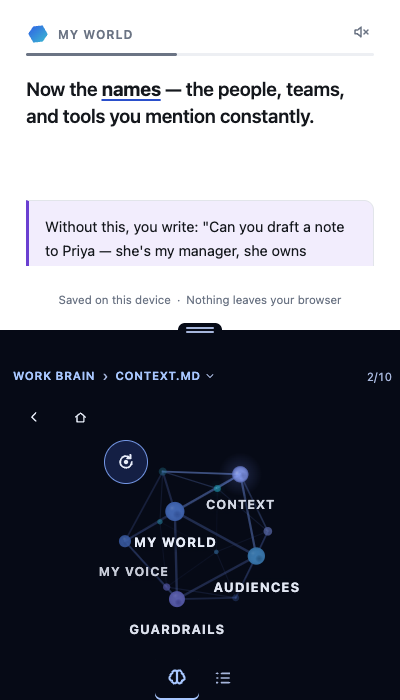
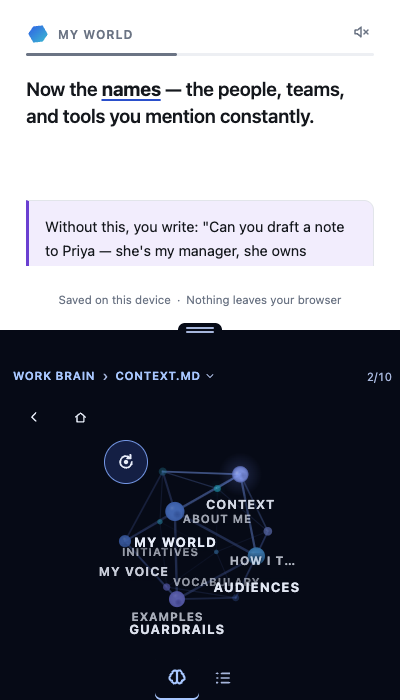
V2.3 VB-77 FLAG 3: far-side labels persist at the floors
The depth cut (LABEL_DEPTH_FLOOR = 0.5) is retired: every section name
stays painted at the far side, clamped at LABEL_OPACITY_MIN (8.8:1 on the
field) and LABEL_SIZE_MIN (11.2px) — small and full-strength, which reads
as distance. "To maintain the illusion of permanence" (Adam).

The cut existed because a cross-fade to nothing paints sub-floor frames;
a floor-clamp has no way down, so the 200ms transition only interpolates
between legal values — the replacement claim is stricter than the cut it
retires (every label ≥ the floor, none absent), pinned in
brain-globe.spec and BrainGlobe.test. If the far side still reads as
"disappearing" in the morning, the remaining lever is size, not opacity
(noted at the old constant's site).

Gate: npm run check exit 0.

Changed region(s): [[0.3, 0.78, 0.72, 0.84], [0.45, 0.72, 0.63, 0.75], [0.33, 0.87, 0.51, 0.9]]

diff --git a/src/panel/components/BrainGlobe.tsx b/src/panel/components/BrainGlobe.tsx
@@ -770,10 +770,18 @@ const EDGE_W_SPAN = 1.9;
 const EDGE_BASE_OPACITY_MIN = 0.16;
 const EDGE_BASE_OPACITY_SPAN = 0.22;
 const EDGE_LIT_OPACITY = 0.86;
-/** Below this depth a label is behind the globe and is not shown at all.
- * Anything still shown stays at or above LABEL_OPACITY_MIN, which measures
- * 8.8:1 on the field — dimmer-with-distance must never mean under 4.5:1. */
-const LABEL_DEPTH_FLOOR = 0.5;
+/**
+ * V2.3 VB-77 FLAG 3 — labels persist at the far side. There used to be a
+ * depth floor here (0.5) below which a label was not painted at all; the
+ * cut existed because a label that CROSS-FADES to nothing paints text below
+ * the contrast floor on the way down. Persistence dissolves that reason:
+ * opacity is clamped at LABEL_OPACITY_MIN (8.8:1 on the field) and size at
+ * LABEL_SIZE_MIN, so the far names sit small and full-strength — which
+ * reads as distance — and the 200ms transition only ever interpolates
+ * between legal values. "To maintain the illusion of permanence" (Adam,
+ * docs/V2.3-REFINEMENT.md). If the far side still reads as "disappearing"
+ * in the morning, the remaining lever is SIZE, not opacity.
+ */
 const LABEL_OPACITY_MIN = 0.62;
 /**
  * V1.5 VB-26 — `type.label`, scaled for depth.
@@ -2887,7 +2895,6 @@ export function BrainGlobe({
             const node = frame.nodes[vertexIndex]!;
             const state = stateOf(entry.section);
             const isFlown = entry.index === flownIndex;
-            const visible = reduced || node.t >= LABEL_DEPTH_FLOOR || isFlown;
             // Depth sets a label's opacity; flying into a section also takes
             // the other nine's names down with their spheres, so the one you
             // are inside is the only thing left to read.
@@ -2915,7 +2922,7 @@ export function BrainGlobe({
               left: `${left}%`,
               top: `${pct(at.y)}%`,
               '--brainglobe-hit-size': `${orbPx.toFixed(1)}px`,
-              '--brainglobe-label-opacity': visible ? labelOpacity.toFixed(3) : '0',
+              '--brainglobe-label-opacity': labelOpacity.toFixed(3),
               '--brainglobe-label-size': `${(LABEL_SIZE_MIN + node.t * LABEL_SIZE_SPAN).toFixed(1)}px`,
               '--brainglobe-label-weight': String(
                 Math.round((LABEL_WEIGHT_MIN + node.t * LABEL_WEIGHT_SPAN) / 50) * 50,
@@ -2935,7 +2942,7 @@ export function BrainGlobe({
                 data-section-id={entry.section.id}
                 data-node-state={state}
                 data-depth={node.t.toFixed(3)}
-                data-label-hidden={visible ? 'false' : 'true'}
+                data-label-hidden="false"
                 style={style}
                 // The section you are inside goes too once a sub-node takes
                 // the stage: its orb has faded out, and a control nobody can

diff --git a/tests/e2e/brain-globe.spec.ts b/tests/e2e/brain-globe.spec.ts
@@ -210,14 +210,15 @@ test.describe('V2.1 VB-77 — labels ride their orb and do not blink', () => {
   });
 
   /**
-   * The cut at LABEL_DEPTH_FLOOR survives VB-77 and must stay a cut. A label
-   * that cross-fades to nothing paints text below the contrast floor on every
-   * frame of the way down, which docs/GUARDRAILS.md forbids — the same
-   * constraint core/flow/navMelt.ts's header documents. So: every name on
-   * screen is at or above the floor, and the ones below it are not on screen.
-   * There is no in-between, and this asserts there is no in-between.
+   * V2.3 VB-77 FLAG 3 — the depth cut is retired, and what replaces it is
+   * stricter: every label persists, and every one is at or above the
+   * contrast floor. The cut existed because a cross-fade to nothing paints
+   * sub-floor frames (docs/GUARDRAILS.md; core/flow/navMelt.ts's header) —
+   * a floor-CLAMP has no way down, so the 200ms transition only ever
+   * interpolates between legal values. Far names sit small and
+   * full-strength, which reads as distance: "the illusion of permanence".
    */
-  test('no label is ever painted faint — it is above the floor or it is gone', async ({ page }) => {
+  test('every label persists, and none is ever painted faint (VB-77 FLAG 3)', async ({ page }) => {
     await open(page);
     const opacities = await page
       .locator('.brainglobe-label')
@@ -225,9 +226,7 @@ test.describe('V2.1 VB-77 — labels ride their orb and do not blink', () => {
 
     expect(opacities.length).toBeGreaterThan(0);
     for (const value of opacities) {
-      const legible = value >= 0.6;
-      const absent = value <= 0.001;
-      expect(legible || absent, `a label was painted at ${value} — neither legible nor gone`).toBe(true);
+      expect(value, `a label was painted at ${value} — below the 8.8:1 floor`).toBeGreaterThanOrEqual(0.6);
     }
   });
 

diff --git a/src/panel/components/BrainGlobe.test.tsx b/src/panel/components/BrainGlobe.test.tsx
@@ -536,15 +536,18 @@ describe('BrainGlobe — labels key off depth', () => {
     for (const value of shown) expect(value.opacity).toBeGreaterThanOrEqual(0.62);
   });
 
-  it('a label behind the globe is not shown at all, rather than shown too faintly', () => {
+  it('a label behind the globe persists at the floor — small and full-strength, never faint (VB-77 FLAG 3)', () => {
     stubEnvironment({ reduce: false });
     const { container } = render();
     const behind = sectionPins(container).filter((pin) => Number(pin.getAttribute('data-depth')) < 0.5);
     expect(behind.length).toBeGreaterThan(0);
     for (const pin of behind) {
-      expect(pin.getAttribute('data-label-hidden')).toBe('true');
-      expect(pin.style.getPropertyValue('--brainglobe-label-opacity')).toBe('0');
-      // Hidden text, not a control removed: it is still reachable and named.
+      // The old depth cut is gone: the far names stay painted — "the
+      // illusion of permanence" — at or above the 8.8:1 opacity floor and
+      // the 11.2px size floor, which is what reads as distance.
+      expect(pin.getAttribute('data-label-hidden')).toBe('false');
+      expect(Number(pin.style.getPropertyValue('--brainglobe-label-opacity'))).toBeGreaterThanOrEqual(0.62);
+      expect(Number.parseFloat(pin.style.getPropertyValue('--brainglobe-label-size'))).toBeGreaterThanOrEqual(11.2);
       expect(pin.getAttribute('aria-label')).toBeTruthy();
     }
   });
